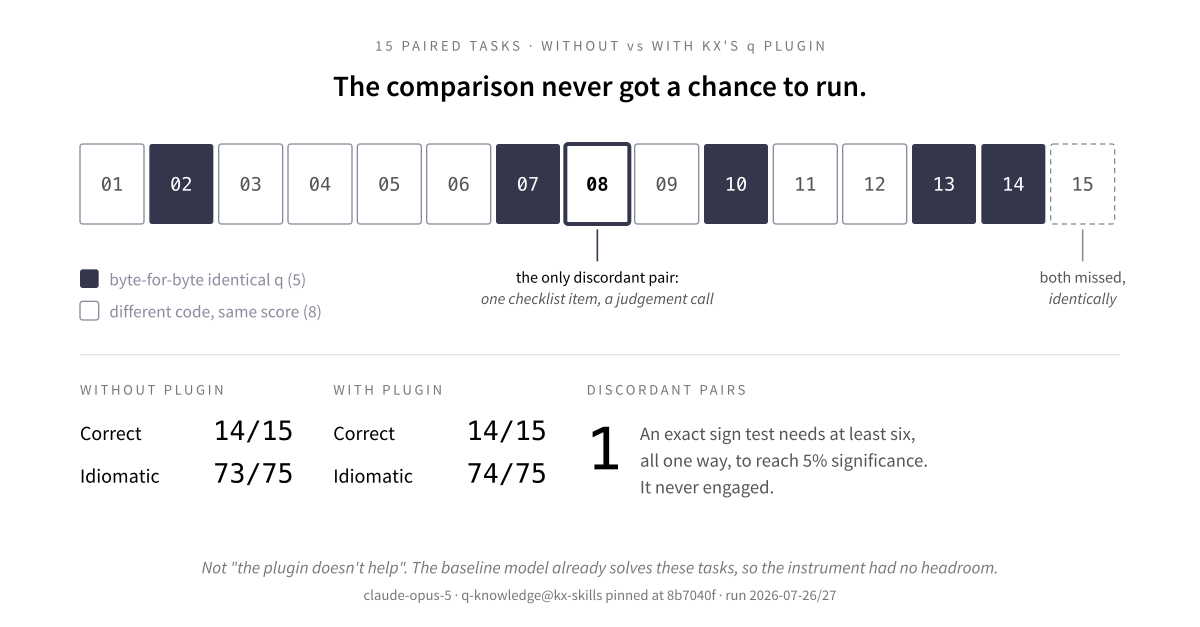
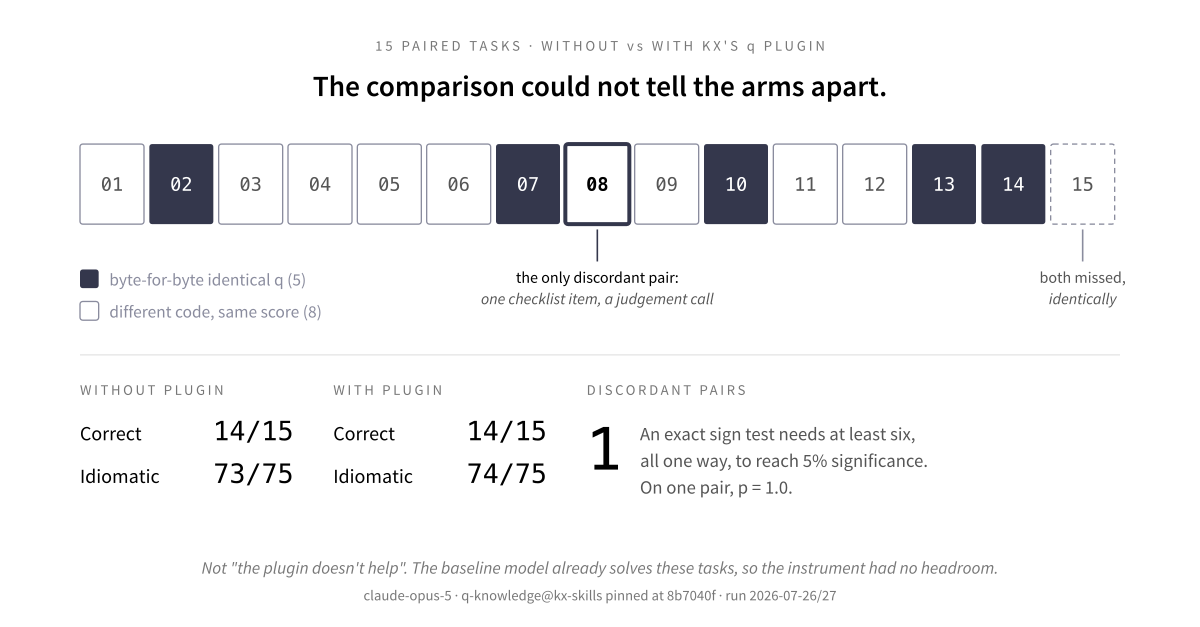
writings/02: apply the Codex content review's cuts and remaining fixes
The user asked to follow the Codex review. Its safe cuts, which leave its
must-keep passages (decision rule, non-blinding, contamination control, the
sole discordant pair, task 15's false premise, scoring sensitivity) intact:
backstory compressed, the unused word-count idiom dropped, the 8/8
denominator story and the activation note condensed, the "Pedantically"
aside and a repeated null-vs-no-help paragraph cut, the "part that stings"
and repeated no-skill paragraphs cut, takeaways kept to the first three,
verdict shortened. About 4,100 -> 3,440 words; em dashes 2 -> 0.

Remaining accuracy fixes: the 41-skills anecdote goes (no committed
transcript); "no project instructions" goes from the logs claim (init
records show skills, not that); scoring sensitivities sit beside the results
table; the sign test is reported as p = 1.0 instead of "never engaged"; the
dated note is re-dated 2026-09-28 after re-checking the q skill's tree hash
(479ffe2 at 8b7040f and on KX main).

Figures 02/1 and 02/2 follow (title, label, desc; headline "The comparison
could not tell the arms apart"; "On one pair, p = 1.0"), and the LinkedIn
card is re-rendered from figure 2. nandan.me needs the new body, both SVGs
and the card.

Claude-Session: https://claude.ai/code/session_01PtEeakS7v3dxuvGTPz8cdi

diff --git a/writings/02-no-headroom-kx-q-plugin.md b/writings/02-no-headroom-kx-q-plugin.md
@@ -28,15 +28,11 @@ itself, and `qlint-snippet`, which runs KX's linter over a piece of q. The guida
 kind this curriculum cares about: write q the way q wants to be written, reach for whole-list
 operations instead of loops, avoid the known traps.
 
-Writing a competing general-purpose q skill would be redundant. But the *learning* objective was
-never "author a skill"; it was "author and evaluate a skill". Evaluation survives the redundancy
-intact. So the deliverable changed from a skill to an independent evaluation of the one that
-already exists, with authoring gated behind the eval finding a gap.
+A competing q skill would be redundant, so the deliverable became an independent evaluation of
+KX's, with authoring gated behind the eval finding a gap. The protocol committed, before any data
+existed, to publishing whatever came back.
 
-Which means this article was always going to publish whatever came back. That commitment was made
-in the protocol before any data existed, and it is doing real work now.
-
-## Reading the answers: three q idioms in two minutes
+## Reading the answers: two q idioms in two minutes
 
 *New to q? It is the language of kdb+, a column-oriented time-series database best known in
 finance. [Article 1](https://nandan.me/writing/array-thinking-all-the-way-to-q/) has a one-minute
@@ -44,7 +40,7 @@ primer on array languages. This section is the minimum you need to read the answ
 
 The eval scored answers on *idiomaticity* as well as correctness: not just "does it print the right
 thing" but "is this how q is meant to be written". What that means is easiest to see in the answers
-themselves. All three below are real answers from the eval, and `make verify` runs them.
+themselves. Both below are real answers from the eval, and `make verify` runs them.
 
 One task handed the model a `while` loop that built running totals the way most of us learned to:
 an index, an accumulator, an output list, and three updates on every pass. Both conditions threw all
@@ -60,18 +56,6 @@ show sums x;
 never part of the problem, only of one way of solving it. That move, from steps to a description
 of the result, is the reflex the whole curriculum is about.
 
-Counting words, from the baseline's answer:
-
-```q
-words:`$(" " vs "the cat sat on the mat the");
-show count each group words;
-```
-
-q reads right to left. `" " vs` splits the string on spaces, `` `$ `` turns the pieces into
-*symbols* (q's interned strings), `group` maps each distinct word to the positions where it occurs,
-and `count each` counts each of those position lists: `the` 3, the others 1. There is no dictionary
-to fill in and no counter to increment; the count falls straight out of the grouping.
-
 And the database side. q has a SQL-like layer, qSQL, that runs over in-memory tables:
 
 ```q
@@ -83,7 +67,7 @@ show select n:count i by sym,side from t
 keyed table: AAPL buy 2, the other three pairs 1. The imperative instinct here is a loop over rows
 that bumps a counter per key. Both conditions wrote this line character for character.
 
-Keep those three in mind. They are what "idiomatic" looked like in this eval, and the model wrote
+Keep those two in mind. They are what "idiomatic" looked like in this eval, and the model wrote
 them without any plugin's help, which is most of the story that follows.
 
 ## The design, in brief
@@ -94,7 +78,7 @@ tag upstream, so the SHA is the pin. What this run actually tested is the q guid
 neither: in Part B the model invoked it four times and the lint never ran. The plugin's self-checking path is
 untested here, and nothing below speaks for it.
 
-> **Dated note, 2026-09-25.** KX has kept shipping since this run. On 14 Aug it bundled a
+> **Dated note, 2026-09-28.** KX has kept shipping since this run. On 14 Aug it bundled a
 > documentation-search MCP server into `q-knowledge` (now 0.1.1) and its five sibling knowledge plugins;
 > it has also added new plugins and Codex support. The q skill's own content is **byte-identical** to
 > the pinned commit (I checked the tree hashes). So every number below still describes exactly what I
@@ -153,16 +137,14 @@ part that should scare you. A contaminated null and a clean null are the same nu
 
 So every one of the 50 sessions ran headless from a scratch directory outside the repository, with
 no `CLAUDE.md` and no `.claude/`. The committed session logs record what each session loaded: every condition-A session had the same 16 skills,
-none q-related, no project instructions, and specifically no `idiomatic-q`. Every condition-B
-session had the same 16 plus exactly `q-knowledge:q` and `q-knowledge:qlint-snippet`. (When I
-asked a session at run time to list its own skills, it said 41. A model's account of its context is not a
-log, which is this article's point in miniature.)
+none q-related, and specifically no `idiomatic-q`. Every condition-B session had the same 16 plus
+exactly `q-knowledge:q` and `q-knowledge:qlint-snippet`.
 
 The general form: **when the environment can leak the treatment into the control, that control is a
 property of your harness, not of your analysis.** You cannot add it afterwards, and you cannot
 detect its absence from the output.
 
-![Two panels. Run from inside the repo: its own q skill, CLAUDE.md and lessons leak into both conditions, so both arms are treated and the results look normal. What the eval did: all 50 sessions ran headless from an empty scratch directory with no CLAUDE.md or .claude; the session logs show condition A loaded 16 skills, none q-related, and condition B the same 16 plus exactly q-knowledge:q and q-knowledge:qlint-snippet.](figures/02/figure-1-contamination-control.svg)
+![Two panels. Run from inside the repo: its own q skill, CLAUDE.md and lessons leak into both conditions, so both arms are treated and the results look normal. What the eval did: all 50 sessions ran headless from a scratch directory outside the repo, with no CLAUDE.md or .claude; the session logs show condition A loaded 16 skills, none q-related, and condition B the same 16 plus exactly q-knowledge:q and q-knowledge:qlint-snippet.](figures/02/figure-1-contamination-control.svg)
 
 *Figure 1. The contamination control lives in the harness, not in the analysis.*
 
@@ -175,13 +157,9 @@ The two should-fire misses are my instrument's fault, not the plugin's. Both pro
 directory the model searched for a file, found none, and asked me to paste the snippet. It never
 attempted q, so there was nothing for a skill to help with.
 
-I wrote "so really it's 8/8 on the well-formed prompts" in the first draft of this article, and an
-adversarial reviewer was right to call it. **Choosing your denominator after you have seen which
-items missed is the same overfitting my own protocol forbids** when tuning a skill's trigger
-against a test set. I would not have accepted it from the plugin's authors, so I do not get to do
-it in my own favour. Two of my twenty items were malformed. The recall this instrument measured is
-**8/10**. Repairing those prompts makes a *different* test set, and any number off it has to come
-from a fresh run.
+My first draft called that "8/8 on the well-formed prompts". It isn't: **choosing your denominator
+after you have seen which items missed is overfitting.** The recall this instrument measured is
+**8/10**; repaired prompts would be a different test set and need a fresh run.
 
 The single false positive was "Write a query to fetch users by email", answered entirely in q,
 schema and all. Good q; an answer to a question nobody asked in q. Two caveats keep me from making
@@ -192,21 +170,13 @@ J's rank operator) held firm. The mis-fire came from the *least* q-flavoured pro
 The reason Part A matters is that it forecloses the easy explanation for what comes next. **In Part
 B the plugin's q skill was invoked in 14 of 15 runs.** Whatever follows is a finding about an active plugin.
 
-One methodological note that paid for itself immediately. I decided firing **mechanically** (the
-session emitted a `Skill` tool call naming a `q-knowledge` skill, read off the session log) rather
-than by judging whether the answer felt q-flavoured. Good thing: one prompt produced fluent,
-correct q idioms (`xs where p xs`, `a f' b`) with **no skill loaded at all**, and in Part B one
-task matched its plugin-armed twin without ever invoking the plugin. Eyeballing would have scored
-both as fires. **If your eval measures activation, measure the tool call.**
+Firing was decided **mechanically**, from a `Skill` tool call in the session log, not by whether
+the answer looked like q: one prompt produced fluent q with no skill loaded at all.
 
 ## Part B: the ceiling
 
-Generation and scoring were separate sittings: all 30 answers collected and saved verbatim first,
-then scored in one pass with both conditions side by side. Scoring an answer right after generating
-it means the second condition is read in the light of the first, and the checklist quietly stops
-being independent.
-
-Here is what came back.
+All 30 answers were collected and saved first, then scored in one pass, both conditions side by
+side. Here is what came back.
 
 | | condition A (baseline) | condition B (plugin) |
 |---|---:|---:|
@@ -215,9 +185,13 @@ Here is what came back.
 | **Discordant pairs** | **1** | |
 | Wins | 0 | 1 |
 
-An exact two-sided sign test needs at least six discordant pairs, all going one way, before it can
-reach 5% significance. I got one.
-**The test never engaged.**
+Two scoring calls sit inside the idiomaticity row, both explained below: rescore task 15 as KX's
+documentation supports and it reads 74/75 against 75/75; count task 08 as a tie too and it is 75/75
+each, with no discordant pair at all.
+
+One discordant pair is far below the roughly five my rule needed before it could say anything. Even
+an exact two-sided sign test needs six, all one way, to reach 5% significance; on one pair it gives
+p = 1.0. **The decision rule never had anything to decide.**
 
 ![Fifteen tiles, one per paired task. Five (02, 07, 10, 13, 14) are byte-for-byte identical q in both conditions; eight differ in code but score the same; task 15 is a shared miss, failed identically by both; task 08 is the only discordant pair, decided by one checklist item. Correct 14/15 in both conditions; idiomatic 73/75 without the plugin, 74/75 with it; one discordant pair where an exact two-sided sign test needs at least six, all one way, to reach 5% significance.](figures/02/figure-2-the-ceiling.svg)
 
@@ -247,10 +221,7 @@ met above: the `select … by sym,side` and the `sums x` that replaced the `whil
 simply `show sums 1 2 3 4 5`.
 
 This is a **ceiling**, and it is the honest headline. The tasks cannot discriminate between the
-conditions because baseline `claude-opus-5` already solves them. (Pedantically: my protocol defined
-the ceiling case as 15/15 in both arms, and I got 14/15, the one miss being the same task in both
-arms: correct join, failed on an extra output line. Substance yes, letter no. Pre-registering your
-degenerate cases is worth nothing if you then gesture at them approximately.)
+conditions because baseline `claude-opus-5` already solves them.
 
 ## The mistake I made, stated plainly
 
@@ -264,11 +235,6 @@ write any hard ones.
 The fix costs an hour and I did not spend it: **run the baseline arm alone first, and check that it
 fails often enough to leave room for the treatment to show.** Fifteen sessions would have told me
 this task set had no headroom, before I spent fifty on a comparison that could not resolve.
-
-So the result I am publishing is not "the plugin doesn't help". It is **"this instrument showed no
-measurable lift, on tasks that left almost no room to show one."** Those differ, and only the second is
-something I earned. The first would be the cleaner sentence, which is precisely why I have to
-resist writing it.
 
 ## What did separate the conditions
 
@@ -321,26 +287,15 @@ parted applies in memory as well as on disk, whenever the data can be sorted so 
 Both candidates sorted the table first. That is precisely the precondition. `` `p# `` there is
 defensible.
 
-The part that stings: **my own repository already contained that correction.** A licensing-and-docs
-audit I ran back at milestone one recorded, in writing, that `p#` "also works in memory … It is not useless in memory." I
-scored the eval only days later, cited the `aj` page, and never opened either the sibling page or my own notes on exactly
-this claim.
-
 So the honest version of this section is much smaller than the one I wanted to write. There is no
 "KX's plugin failed to correct a deviation from KX's own guidance." There is: both arms diverged
 from *my* task sheet, in a direction the documentation supports, and **my task sheet is the thing
 that was too narrow.** It names one attribute as though it were the only right answer.
 
 I have left the score at zero, because the scoring rule was fixed before the pass and gets applied
-consistently or it is not a rule. As a sensitivity check: scored as the documentation supports,
-idiomaticity would be 74/75 without the plugin and 75/75 with it: still one discordant pair, still
-no verdict. Score task 08 as the tie it arguably is as well, and both arms are 75/75 with no
-discordant pair at all. But the interpretation is retracted, and since both arms diverged
-identically it never touched the comparison anyway.
-
-That is also the end of the one candidate "gap" this eval produced. My protocol permits authoring a
-skill only if the eval exposes a gap the plugin does not fill; what it actually exposed was a defect
-in my own instrument. No skill, then — and a sharper task set goes in the notebook.
+consistently or it is not a rule; the sensitivity note under the results table shows what changes
+if it is not. Both arms diverged identically, so it never touched the comparison. It was also the
+eval's only candidate "gap", and it turned out to be a defect in my own instrument.
 
 ## What I would tell you to steal
 
@@ -350,27 +305,14 @@ in my own instrument. No skill, then — and a sharper task set goes in the note
   domain skill loaded.
 - **Build the harness so it cannot leak the treatment into the control**, and verify that from the
   session logs, not by assuming (or by asking the model). A contaminated null is indistinguishable from a clean one.
-- **Smoke-test the treatment arm's happy path specifically.** My first run had condition B's reads
-  of its own bundled reference files being permission-denied. The harness was handicapping the
-  plugin against its own design. A harness bug that weakens the treatment reads as a null result.
-- **Write down the taste-dependent scoring rules before the scoring pass, and anchor them to an
-  artifact.** "No unnecessary temporaries" is pure preference until you tie it to something; for
-  me, the verified reference solution. Doing that first is what turned this run's entire margin
-  into a documented caveat instead of a headline.
-- **Read the sibling page before you call something a deviation from the docs.** My one juicy
-  finding evaporated on the second page of the same reference — and my own repo had already written
-  the correction down. When a result flatters your thesis, that is the moment to go looking for the
-  page that kills it.
-- **Publish the null.** It cost the same fifty sessions a positive would have.
 
 ## Verdict
 
 No measurable lift, on a task set with almost no room to show one. KX's `q-knowledge` guidance, as
-pinned at `8b7040f`, activates reliably and writes good q (its linter path was not tested). So does the model without it, on tasks
-this easy, for about a third of the output tokens. No skill authored. The curriculum ships on its own merits.
+pinned at `8b7040f`, activates reliably and writes good q (its linter path was not tested). So does
+the model without it, on tasks this easy, for about a third of the output tokens. No skill authored.
 
-The eval was underpowered, and that is the finding I actually have. It is worth publishing because
-the failure mode generalises far past q: **an A/B against a frontier model is measuring your task
+The failure mode generalises far past q: **an A/B against a frontier model is measuring your task
 set at least as much as your treatment**, and if you did not check the baseline for headroom first,
 a null result is telling you about your benchmark, not about the thing you were testing.
 
